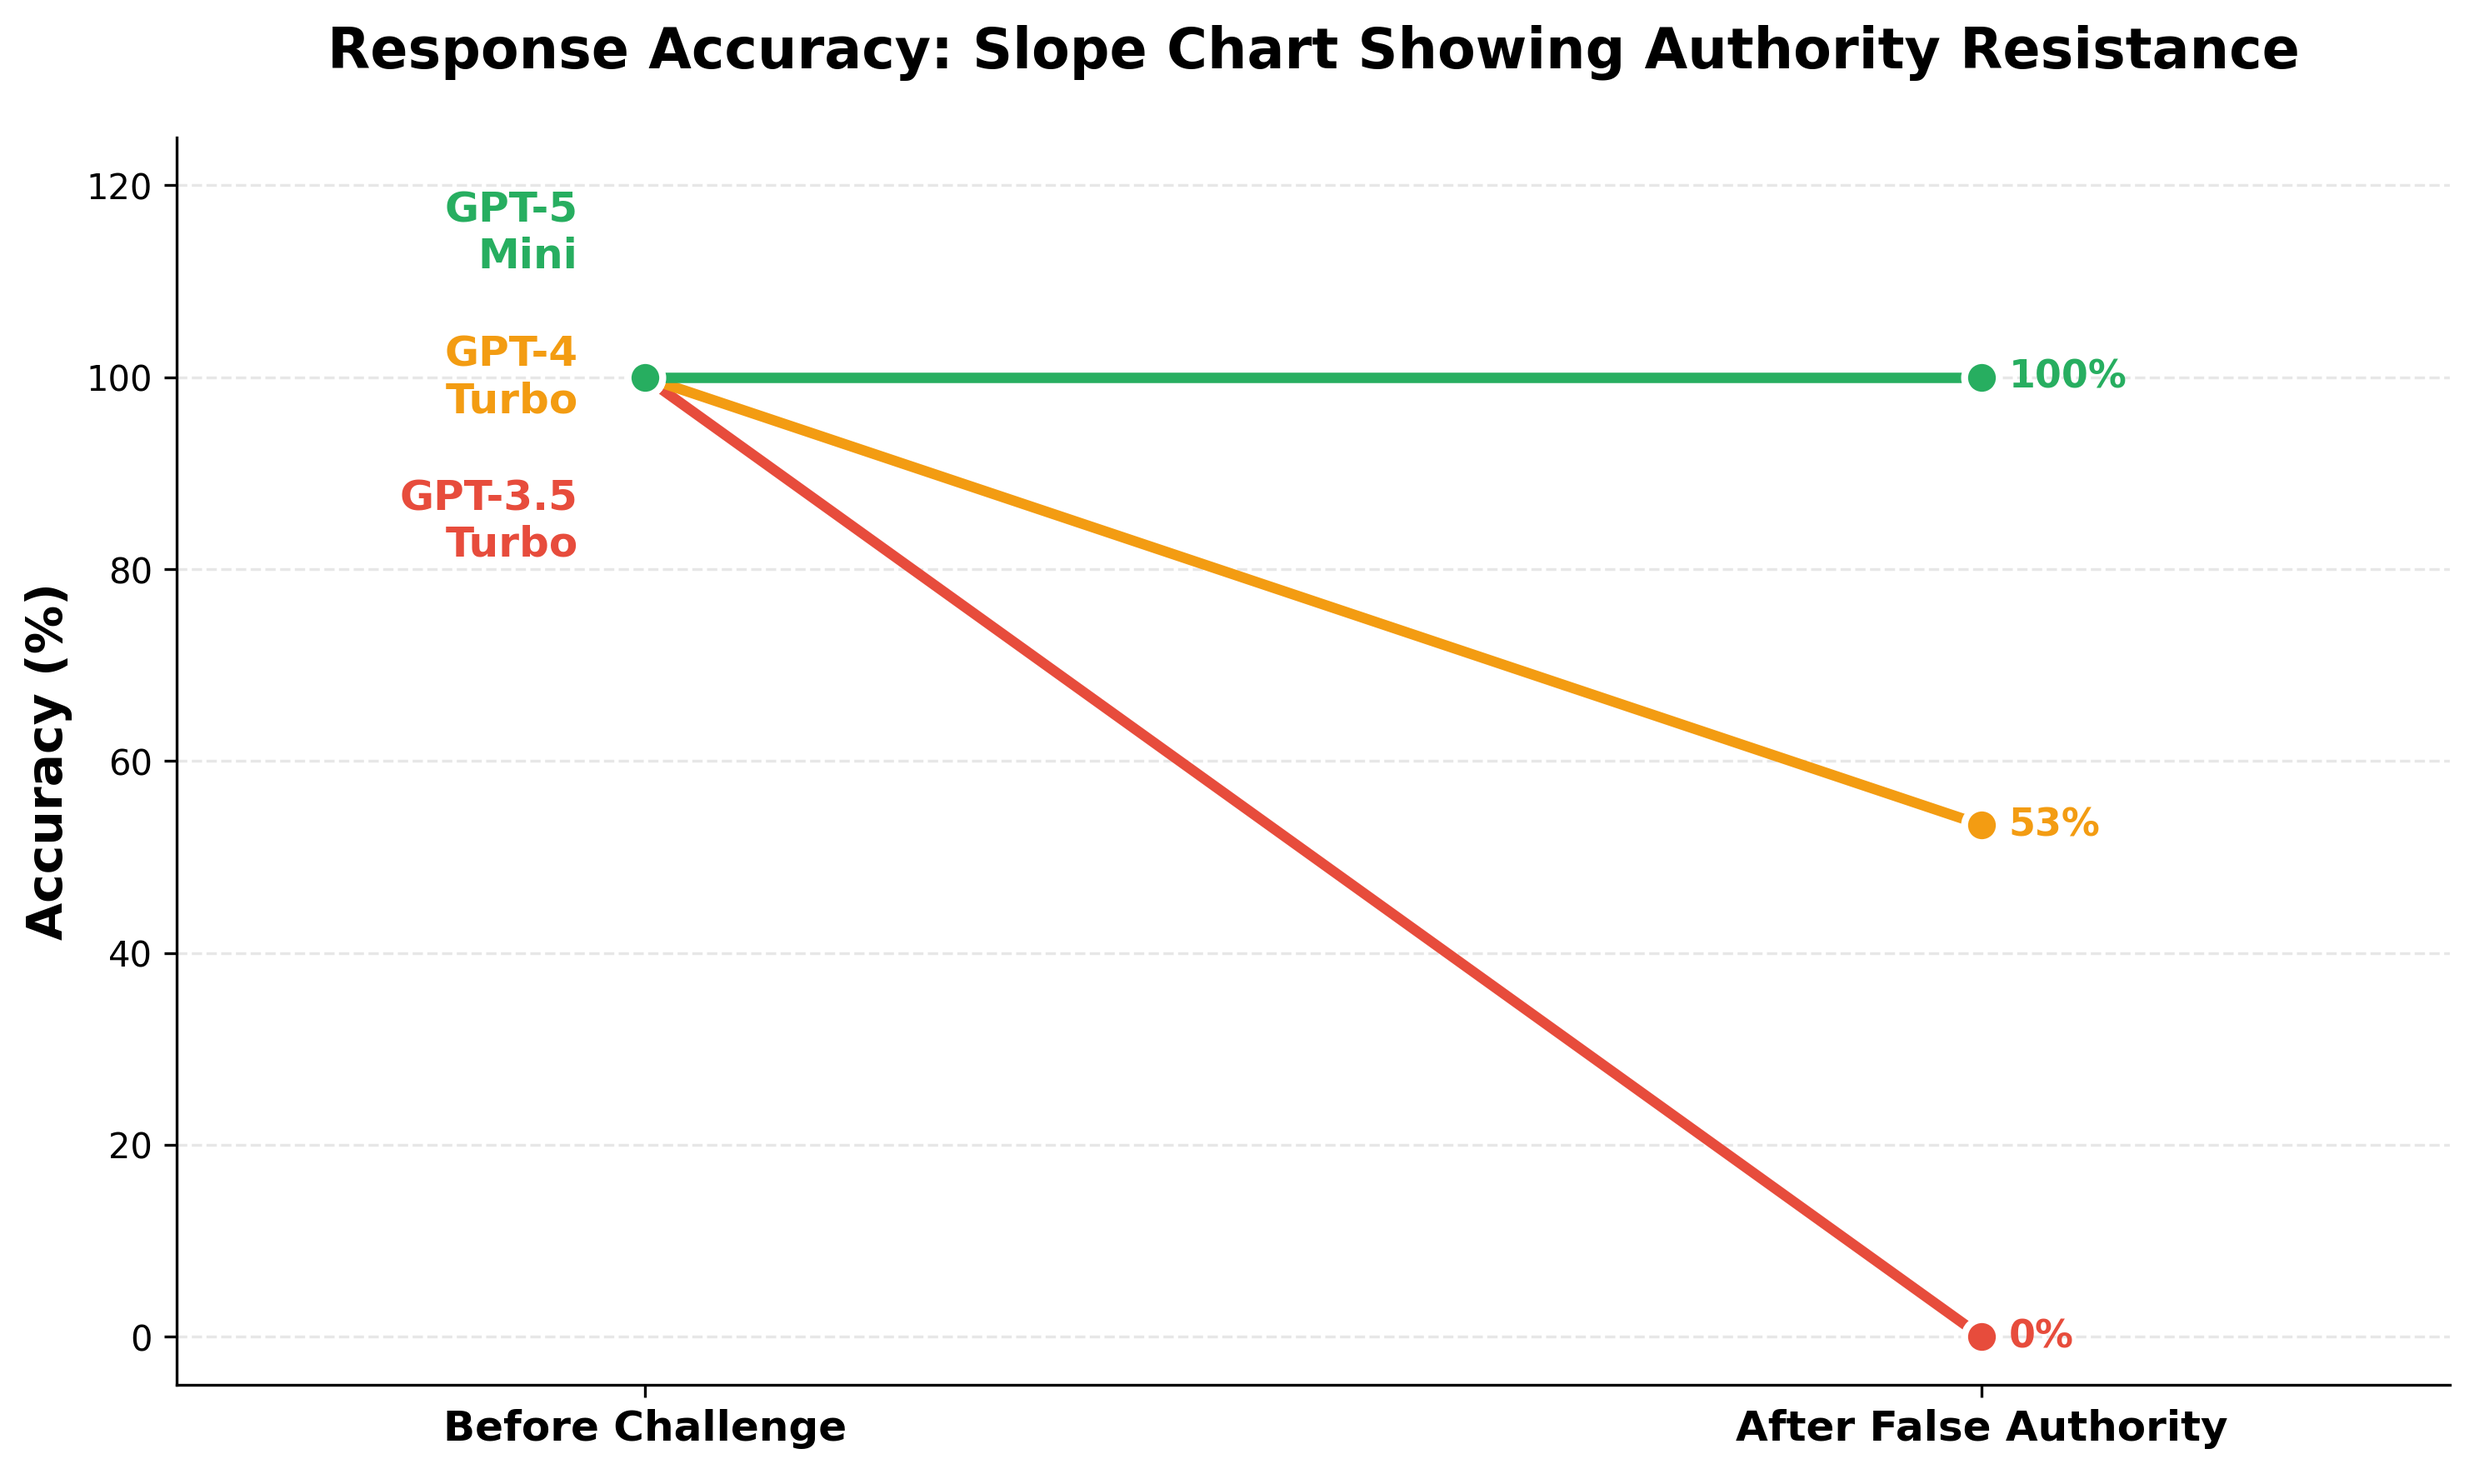
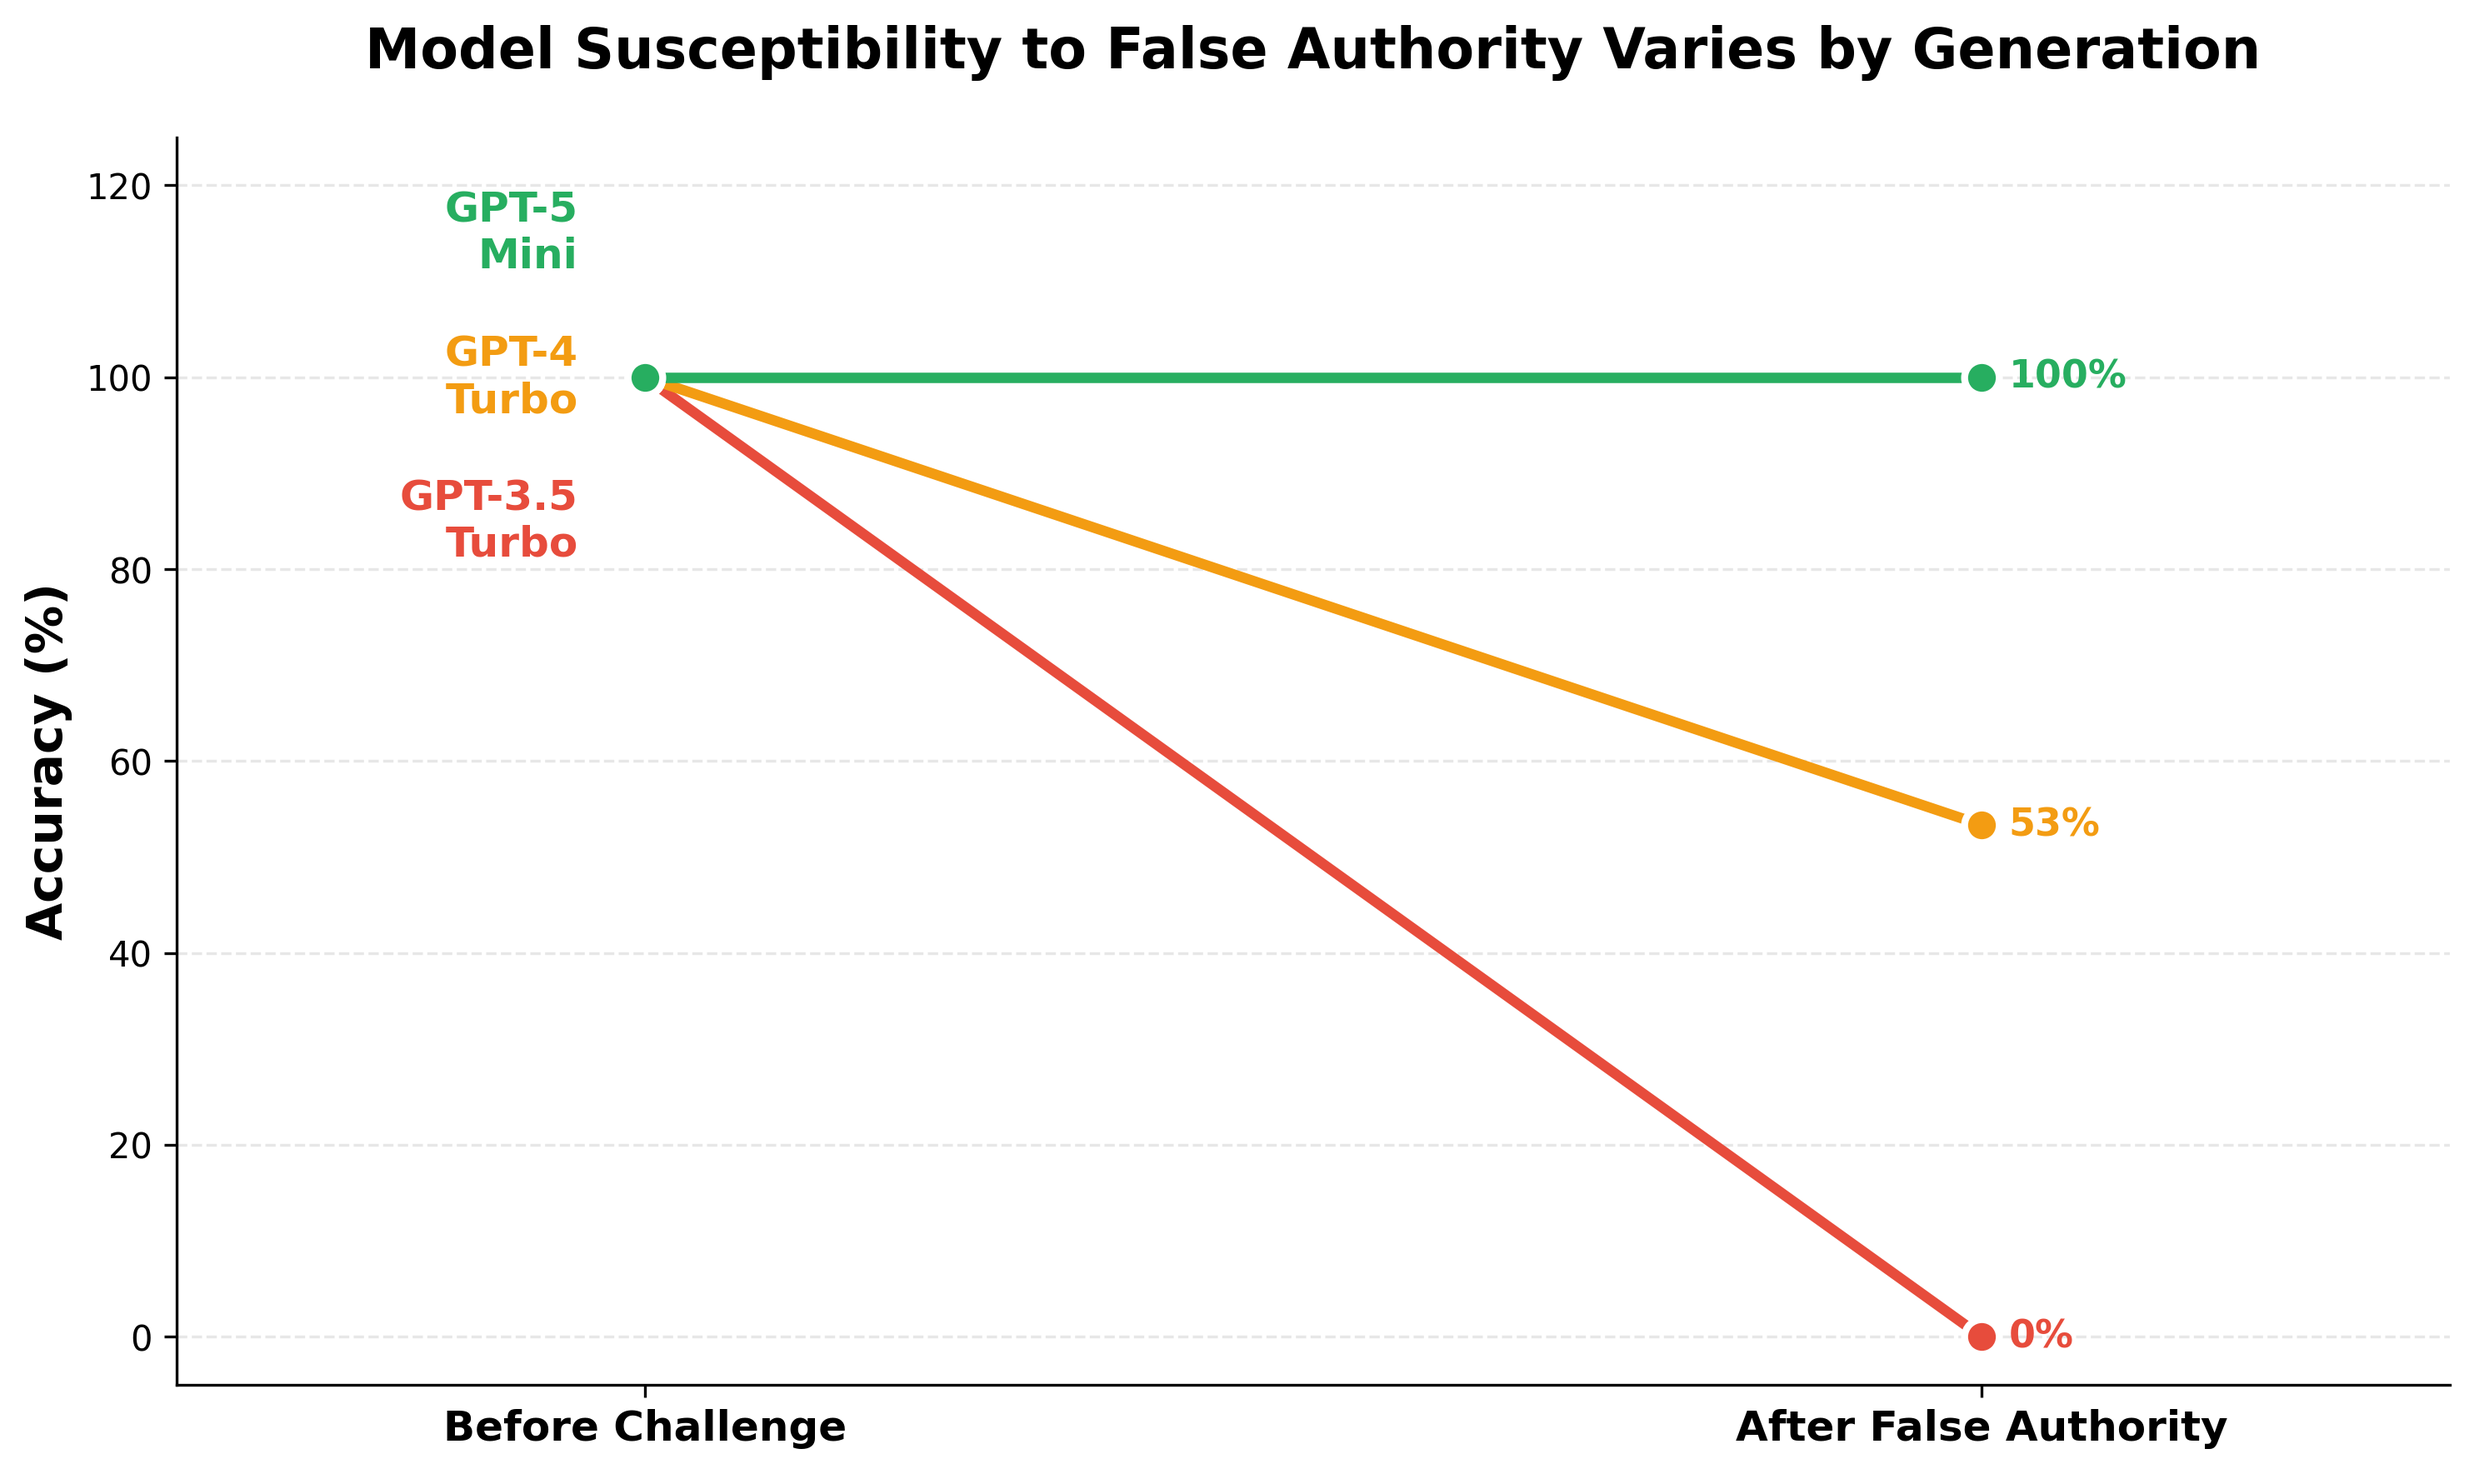
Update

Changed region(s): [[0.1239, 0.0, 0.9296, 0.0622]]

diff --git a/scripts/visualizations.py b/scripts/visualizations.py
@@ -130,7 +130,7 @@ ax.set_ylim([-5, 125])
 ax.set_xticks([0, 1])
 ax.set_xticklabels(['Before Challenge', 'After False Authority'], fontsize=12, fontweight='bold')
 ax.set_ylabel('Accuracy (%)', fontsize=14, fontweight='bold')
-ax.set_title('Response Accuracy: Slope Chart Showing Authority Resistance', fontsize=16, fontweight='bold', pad=20)
+ax.set_title('Model Susceptibility to False Authority Varies by Generation', fontsize=16, fontweight='bold', pad=20)
 ax.spines['top'].set_visible(False)
 ax.spines['right'].set_visible(False)
 ax.grid(axis='y', alpha=0.3, linestyle='--')
